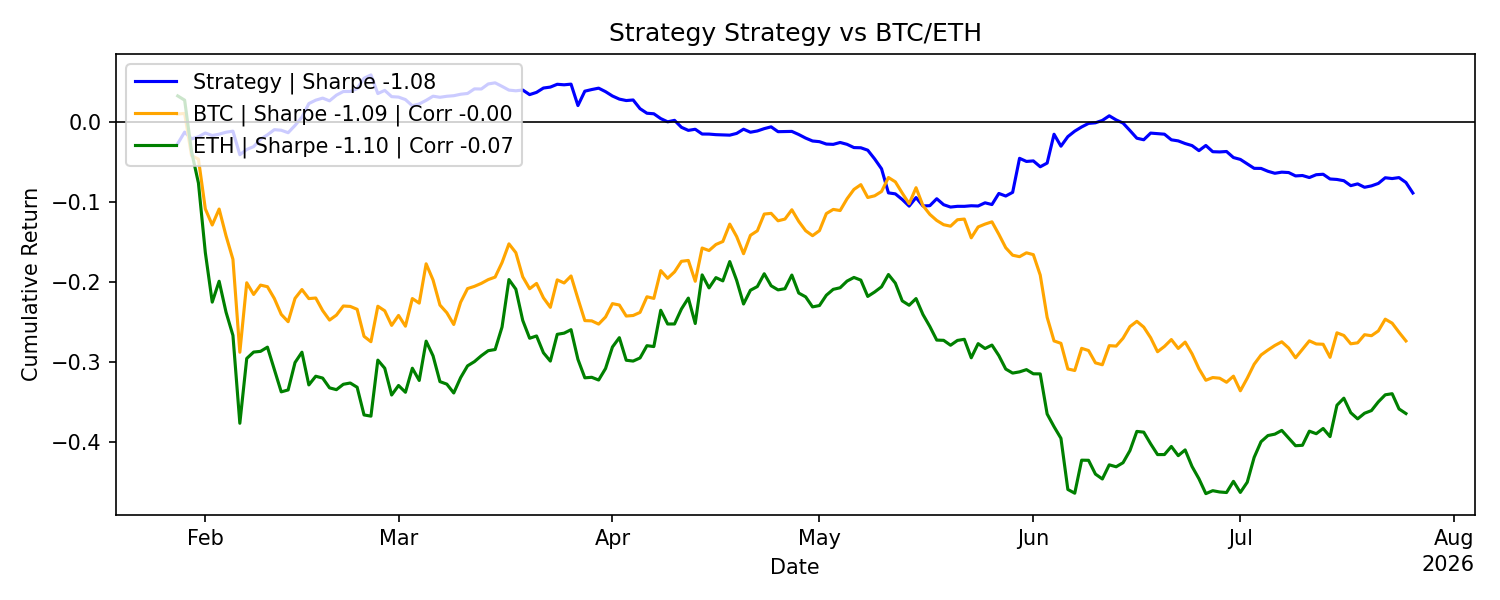
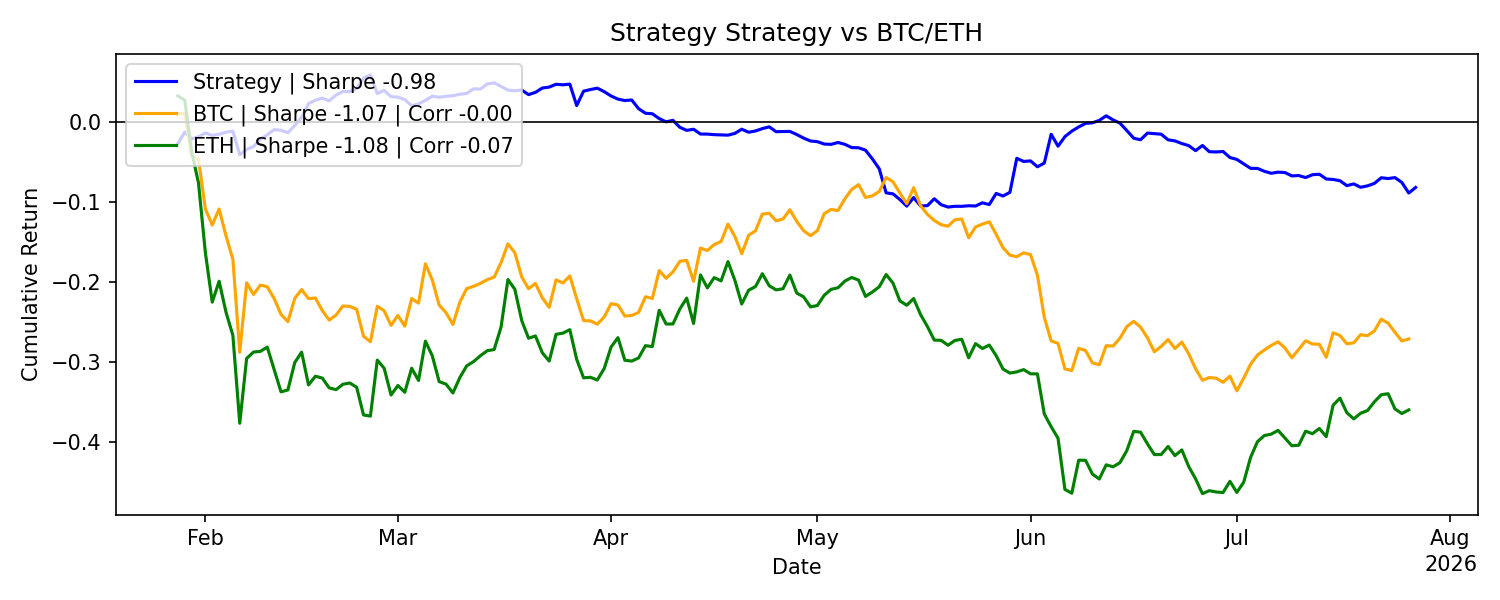
Update reports: 2026-07-27 00:05:06 UTC

diff --git a/README.md b/README.md
@@ -24,26 +24,26 @@ All results are live and reported net of transaction costs and slippage.
 <!-- METRICS_START -->
 | metric                       |        values |
 |:-----------------------------|--------------:|
-| Number of Observations       | 180           |
-| Mean Daily Return            |  -0.000480146 |
-| Daily Volatility             |   0.00851532  |
-| Mean Annualized Return       |  -0.175253    |
-| Annualized Volatility        |   0.162685    |
+| Number of Observations       | 181           |
+| Mean Daily Return            |  -0.000435471 |
+| Daily Volatility             |   0.00851287  |
+| Mean Annualized Return       |  -0.158947    |
+| Annualized Volatility        |   0.162638    |
 | Maximum Drawdown             |  -0.156146    |
-| Max Drawdown Duration (Days) | 151           |
-| Sharpe                       |  -1.07726     |
-| Sortino                      |  -1.48209     |
-| Calmar                       |  -1.12237     |
-| CAGR                         |  -0.171734    |
-| Skewness                     |   0.698642    |
-| Excess Kurtosis              |   8.66705     |
-| Win Rate                     |   0.466667    |
-| Profit Factor                |   0.836076    |
-| VaR 1%                       |  -0.0274974   |
+| Max Drawdown Duration (Days) | 152           |
+| Sharpe                       |  -0.977304    |
+| Sortino                      |  -1.34419     |
+| Calmar                       |  -1.01794     |
+| CAGR                         |  -0.158105    |
+| Skewness                     |   0.684211    |
+| Excess Kurtosis              |   8.60326     |
+| Win Rate                     |   0.469613    |
+| Profit Factor                |   0.850503    |
+| VaR 1%                       |  -0.0274677   |
 | CVaR 1%                      |  -0.030925    |
-| VaR 5%                       |  -0.0113454   |
-| CVaR 5%                      |  -0.0211438   |
-| Correlation with BTC         |  -0.00228651  |
+| VaR 5%                       |  -0.0113318   |
+| CVaR 5%                      |  -0.0201626   |
+| Correlation with BTC         |  -0.00401049  |
 <!-- METRICS_END -->
 
 ## Sharpe Statistics
@@ -55,14 +55,14 @@ All results are live and reported net of transaction costs and slippage.
 | metric                     |   values |
 |:---------------------------|---------:|
 | alpha                      |   0.05   |
-| t-statistic                |  -0.7565 |
-| p-value                    |   0.4503 |
-| Daily Sharpe Ratio         |  -0.0564 |
-| Annualized Sharpe Ratio    |  -1.0773 |
-| Sharpe Standard Error      |   1.4618 |
-| C.I. Lower Bound           |  -3.9422 |
-| C.I. Upper Bound           |   1.7877 |
-| Bootstrap C.I. Lower Bound |  -4.442  |
-| Bootstrap C.I. Upper Bound |   2.6499 |
+| t-statistic                |  -0.6882 |
+| p-value                    |   0.4922 |
+| Daily Sharpe Ratio         |  -0.0512 |
+| Annualized Sharpe Ratio    |  -0.9773 |
+| Sharpe Standard Error      |   1.4536 |
+| C.I. Lower Bound           |  -3.8262 |
+| C.I. Upper Bound           |   1.8716 |
+| Bootstrap C.I. Lower Bound |  -4.266  |
+| Bootstrap C.I. Upper Bound |   2.6603 |
 <!-- SHARPE_END -->
 
